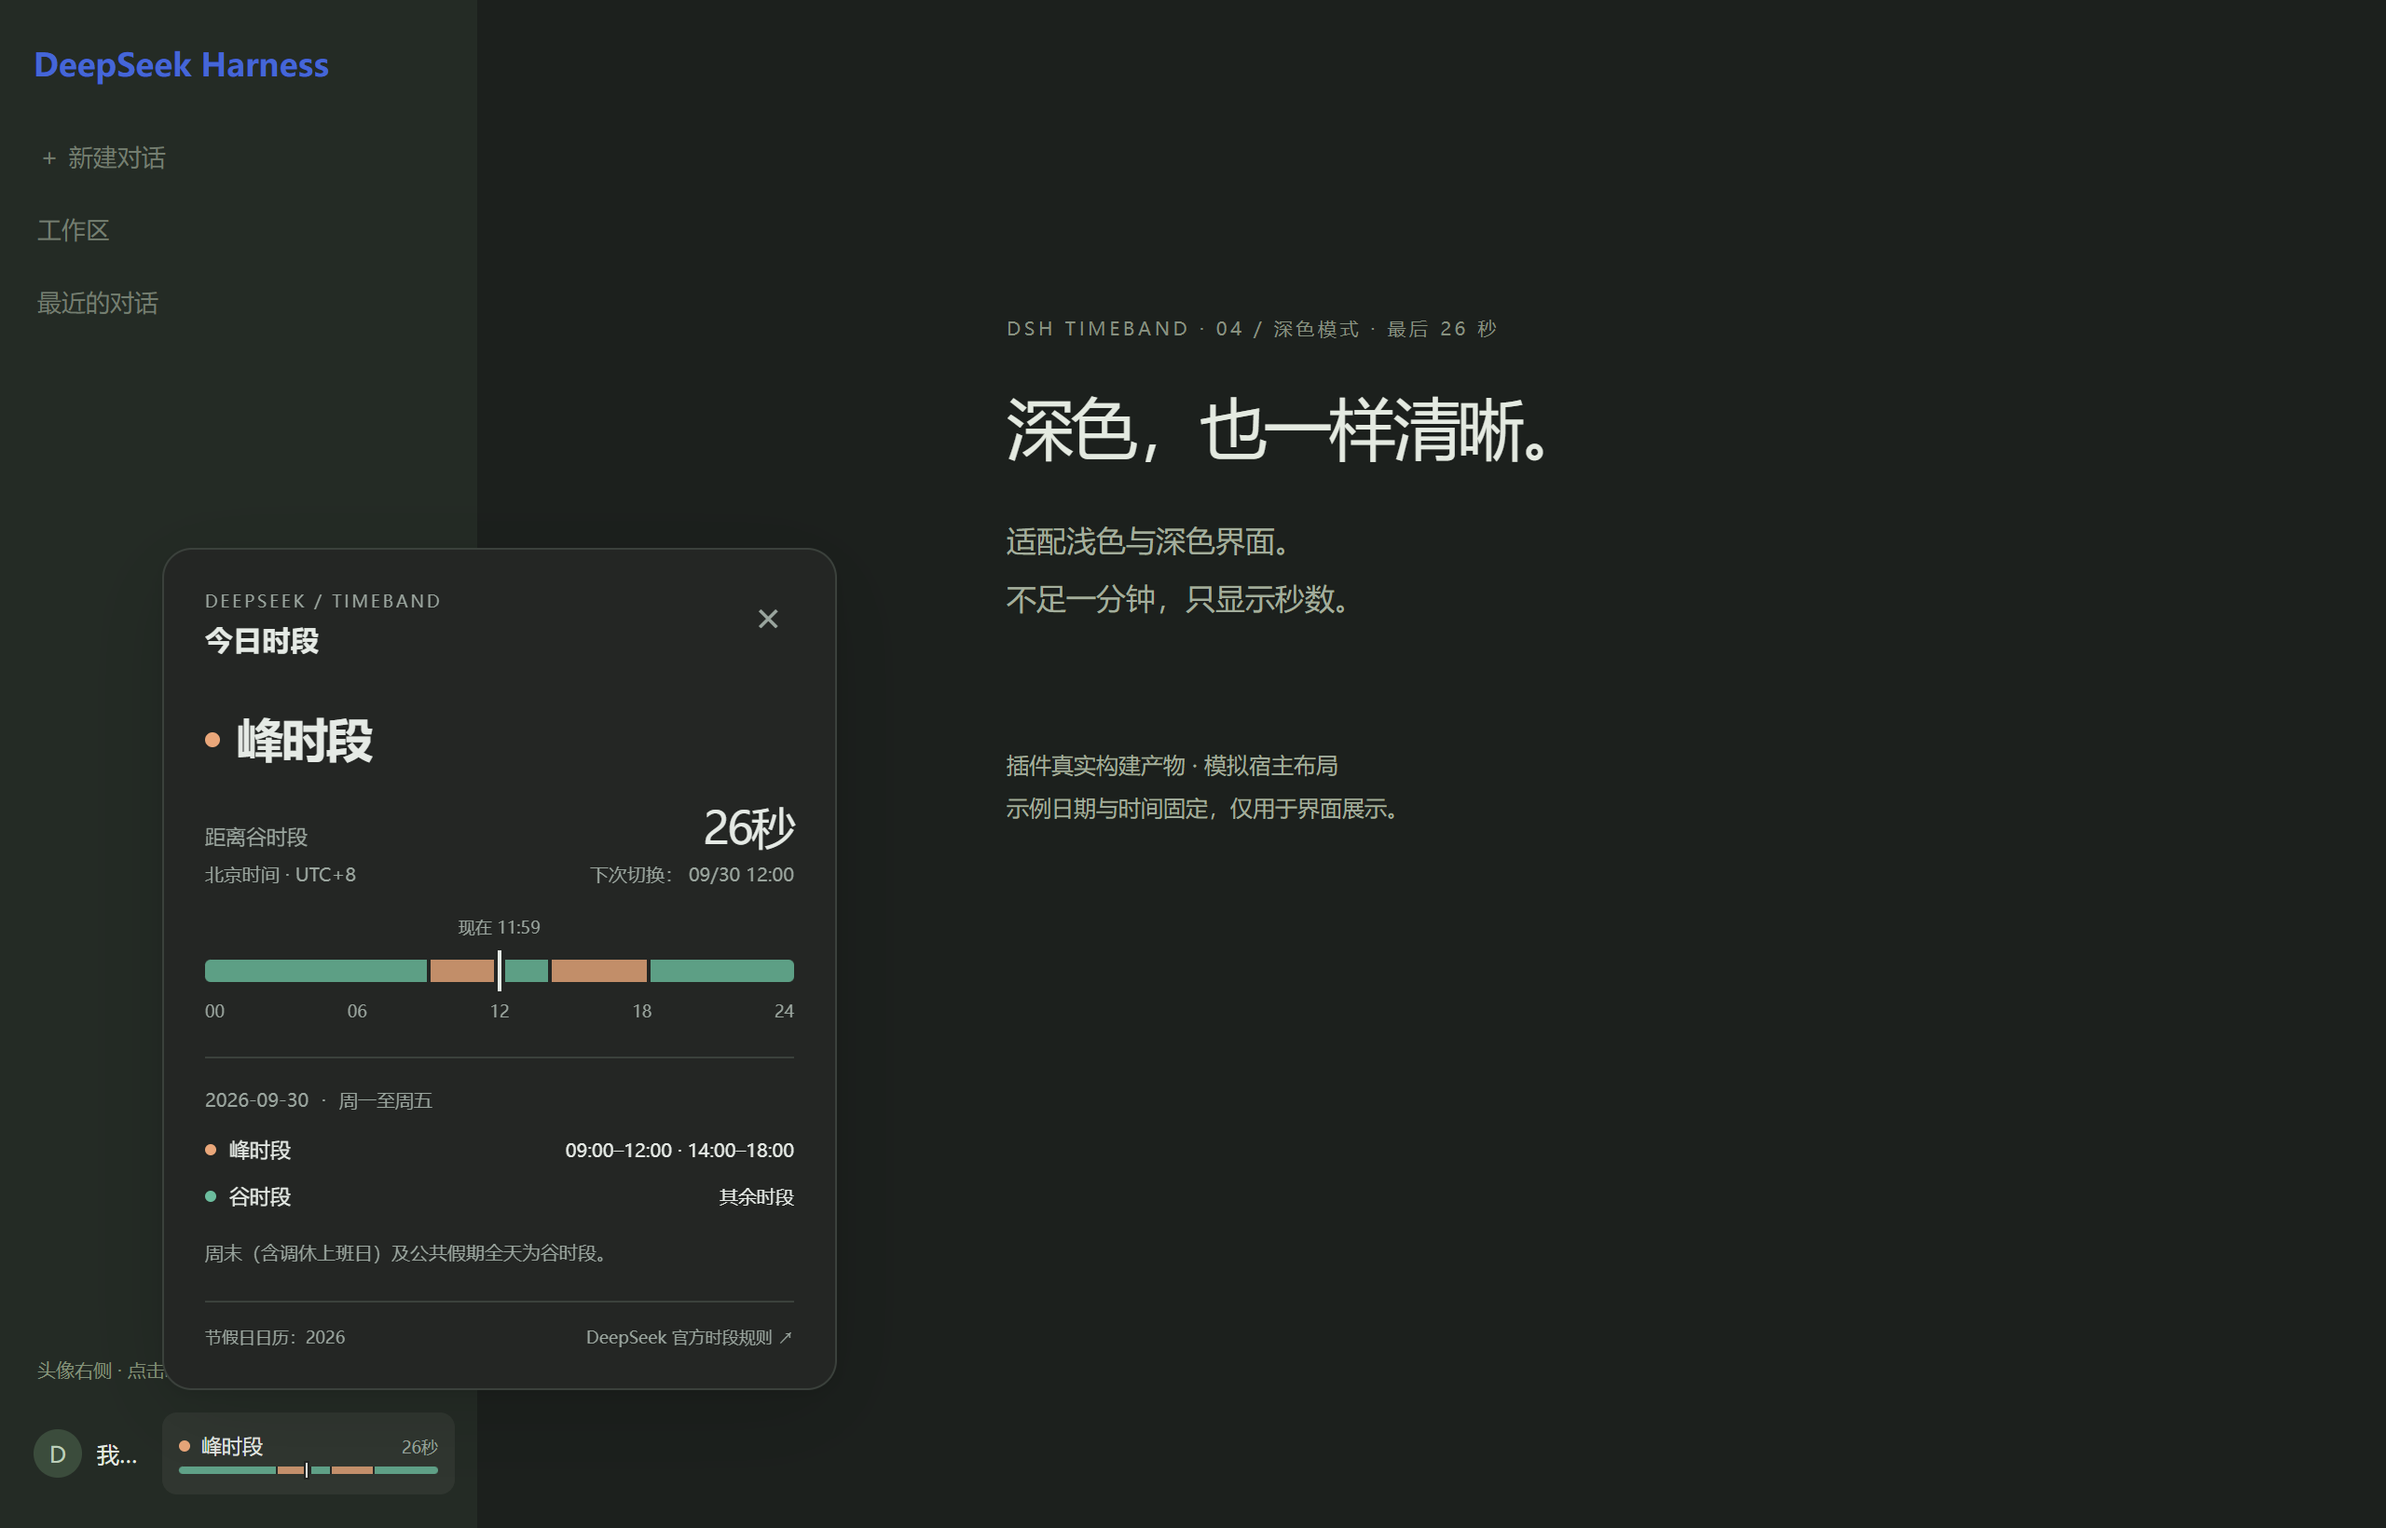
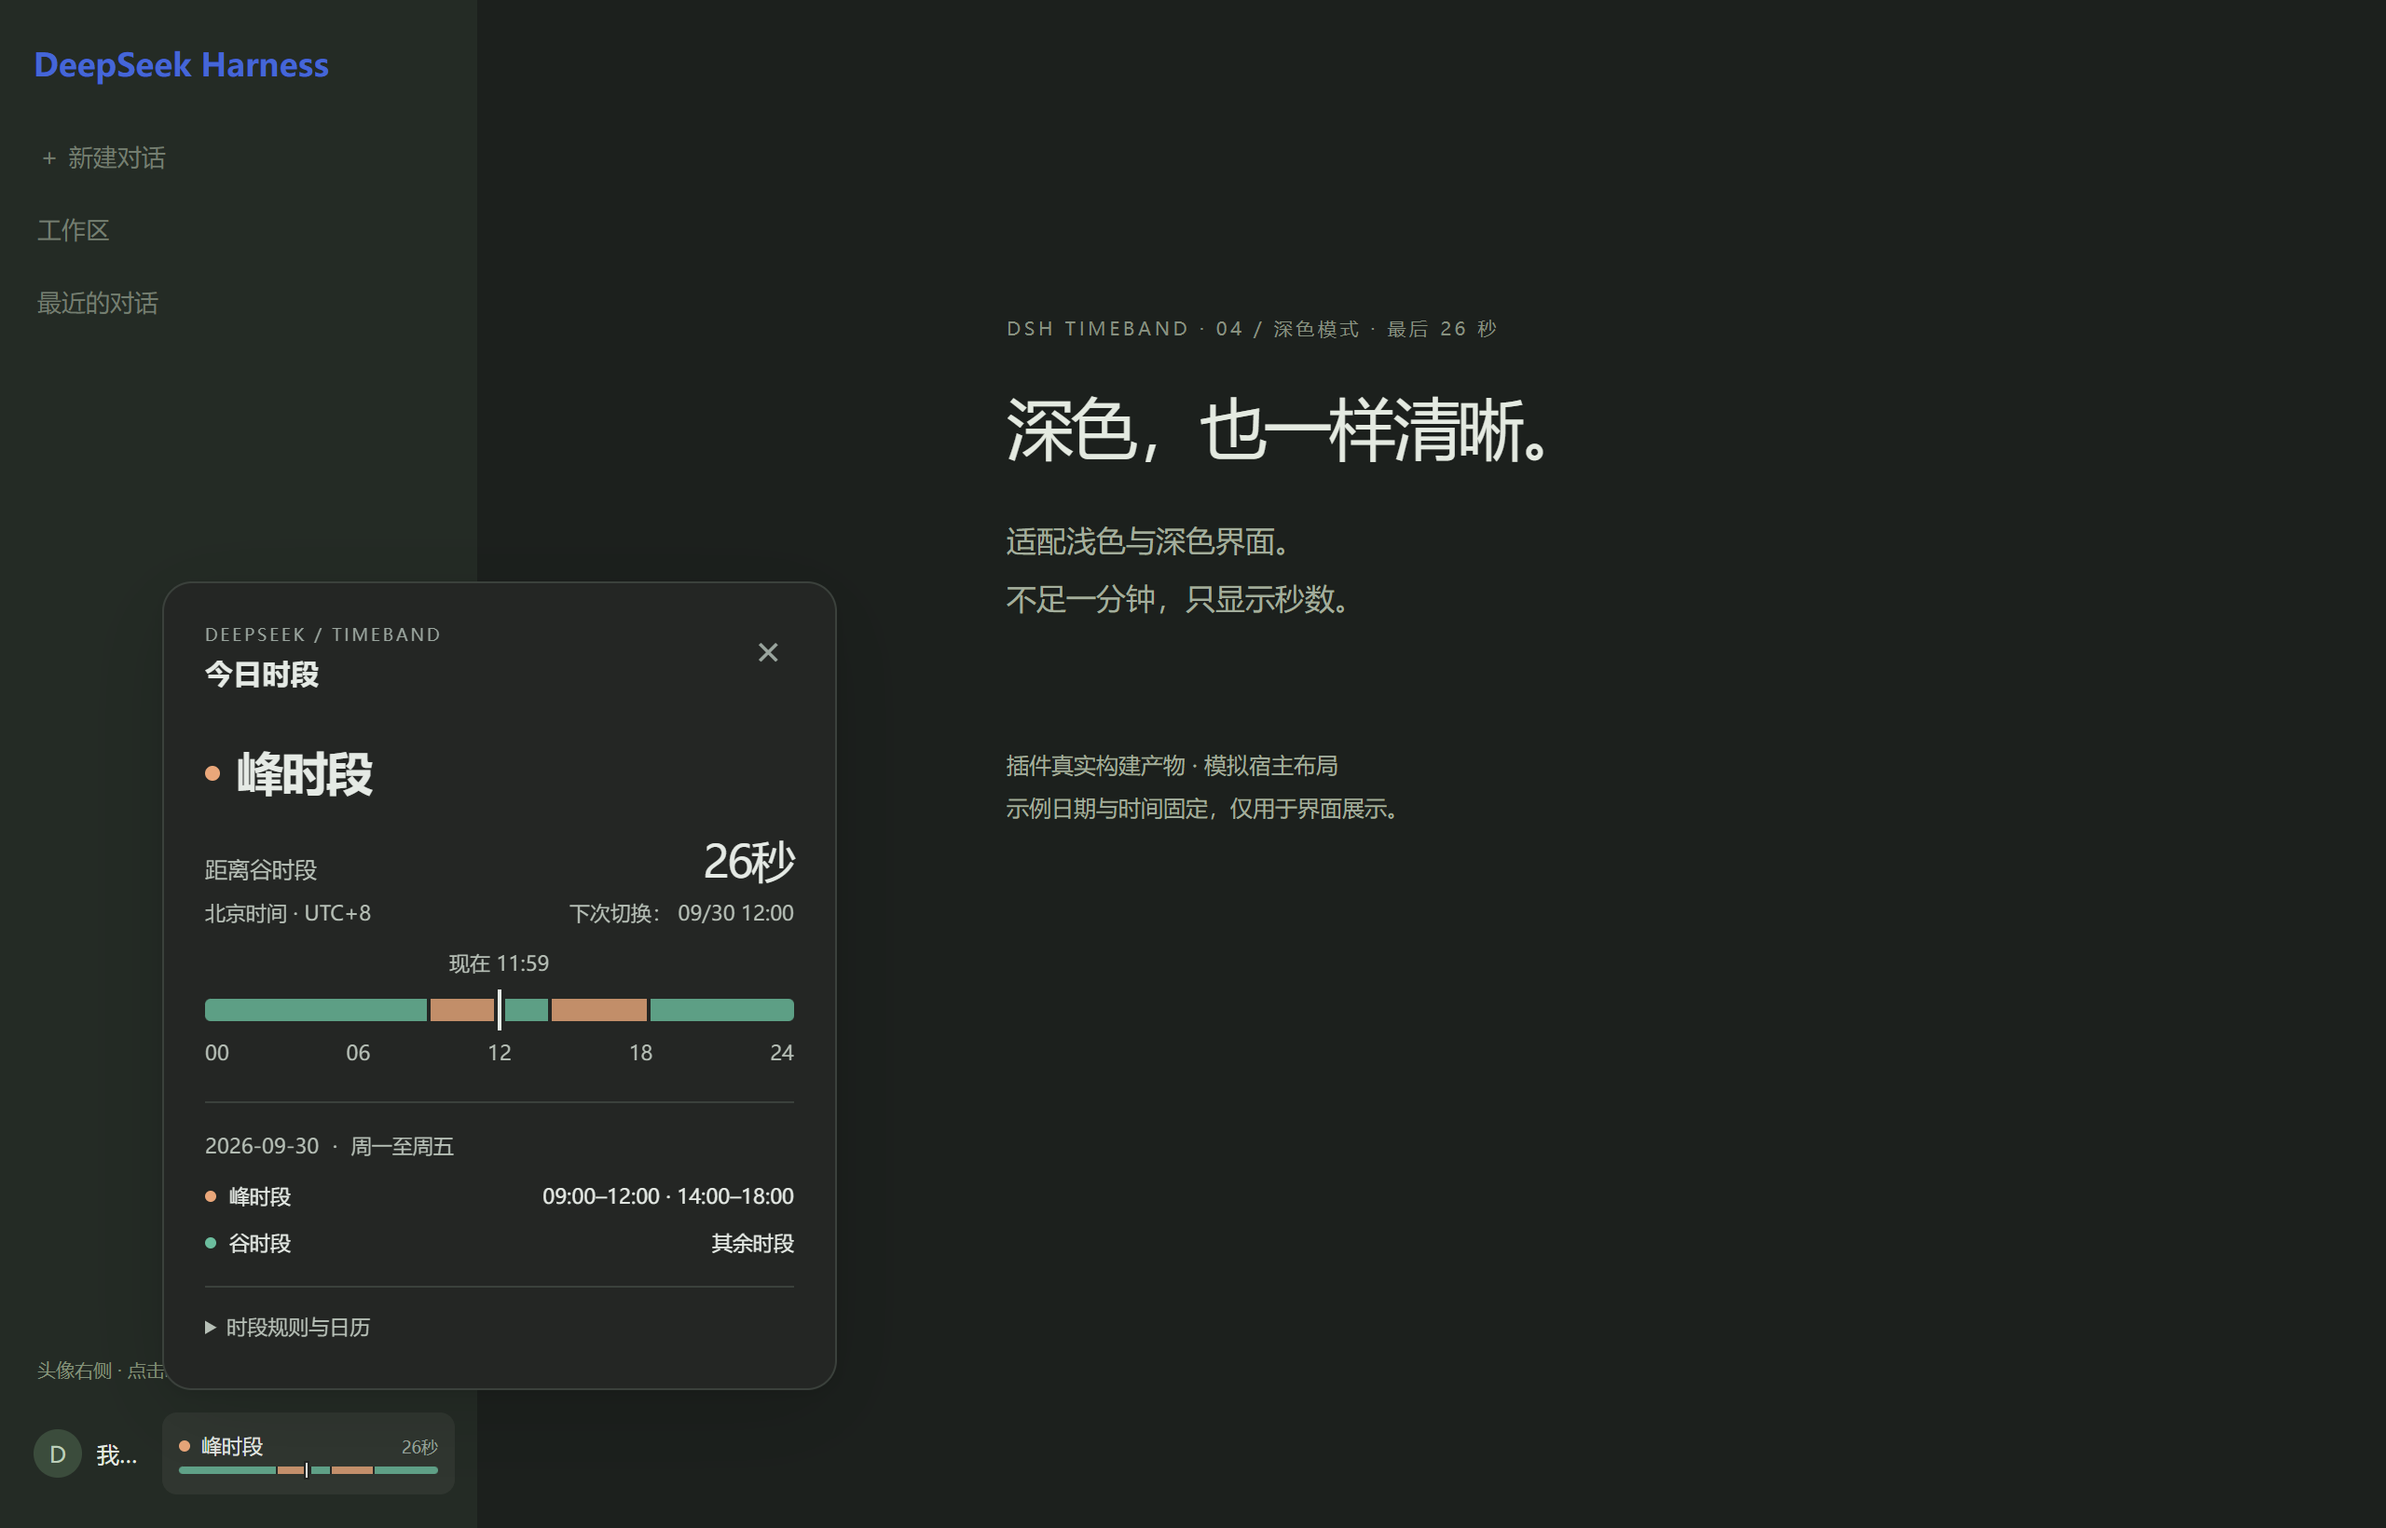
Release v1.0.2 with simpler holiday cards and clearer time labels

diff --git a/src/style.css b/src/style.css
@@ -2,6 +2,7 @@
   --dtb-bg: var(--dsw-alias-bg-base, #fff);
   --dtb-text: var(--dsw-alias-label-primary, #252925);
   --dtb-muted: var(--dsw-alias-label-tertiary, #798079);
+  --dtb-secondary: var(--dsw-alias-label-secondary, #596459);
   --dtb-line: var(--dsw-alias-border-primary, #e7ebe7);
   --dtb-hover: var(--dsw-alias-interactive-bg-hover, #f4f6f3);
   --dtb-green: #338468; --dtb-peak: #cf7850; --dtb-unknown: #909897;
@@ -11,7 +12,7 @@
 .dtb-root { min-width: 0; width: 100%; }
 .dtb-chip { display: flex; flex-direction: column; justify-content: center; gap: 4px; width: 100%; min-width: 126px; height: 44px; padding: 5px 9px; border: 0; border-radius: 8px; background: transparent; color: inherit; font: inherit; cursor: pointer; }
 .dtb-chip:hover, .dtb-chip[aria-expanded='true'], .dtb-close:hover { background: var(--dtb-hover); }
-.dtb-chip:focus-visible, .dtb-close:focus-visible, .dtb-card a:focus-visible { outline: 2px solid var(--dtb-green); outline-offset: 3px; }
+.dtb-chip:focus-visible, .dtb-close:focus-visible, .dtb-card a:focus-visible, .dtb-details summary:focus-visible { outline: 2px solid var(--dtb-green); outline-offset: 3px; }
 .dtb-chip-top { display: flex; flex-wrap: wrap; align-items: center; width: 100%; gap: 2px 6px; }
 .dtb-chip-label { white-space: nowrap; font-size: 11px; }
 .dtb-chip-count { flex-shrink: 0; margin-left: auto; color: var(--dtb-muted); font-size: 9px; font-variant-numeric: tabular-nums; }
@@ -59,21 +60,25 @@ div:has(> div > .dtb-root[data-wide='true']:only-child):has(> div button[data-co
 .dtb-status .dtb-dot { width: 8px; height: 8px; }
 .dtb-status strong { font-weight: 550; font-size: 25px; letter-spacing: -.04em; }
 .dtb-next { display: flex; flex-wrap: wrap; align-items: baseline; justify-content: space-between; gap: 8px; margin-top: 17px; }
-.dtb-next > span { color: var(--dtb-muted); font-size: 11px; }
+.dtb-next > span { color: var(--dtb-secondary); font-size: 12px; }
 .dtb-next strong { margin-left: auto; max-width: 100%; font-size: 24px; font-weight: 400; letter-spacing: -.045em; font-variant-numeric: tabular-nums; }
-.dtb-date { display: flex; justify-content: space-between; gap: 8px; color: var(--dtb-muted); font-size: 10px; margin-top: 4px; }
+.dtb-date { display: flex; flex-wrap: wrap; justify-content: space-between; gap: 4px 8px; color: var(--dtb-secondary); font-size: 11px; margin-top: 6px; }
+.dtb-date > span:last-child { margin-left: auto; }
 .dtb-axis { position: relative; margin: 39px 0 19px; }
-.dtb-now { position: absolute; top: -12px; transform: translate(-50%, -100%); font-size: 9px; white-space: nowrap; color: var(--dtb-muted); }
-.dtb-ticks { display: flex; justify-content: space-between; margin-top: 10px; color: var(--dtb-muted); font-size: 9px; font-variant-numeric: tabular-nums; }
-.dtb-day-kind { border-top: 1px solid var(--dtb-line); padding-top: 16px; margin-bottom: 13px; font-size: 10px; color: var(--dtb-muted); }
+.dtb-now { position: absolute; top: -12px; transform: translate(-50%, -100%); font-size: 11px; white-space: nowrap; color: var(--dtb-secondary); }
+.dtb-ticks { display: flex; justify-content: space-between; margin-top: 10px; color: var(--dtb-secondary); font-size: 11px; font-variant-numeric: tabular-nums; }
+.dtb-day-kind { border-top: 1px solid var(--dtb-line); padding-top: 16px; margin-bottom: 13px; font-size: 11px; color: var(--dtb-secondary); }
 .dtb-day-kind > span { padding: 0 4px; }
 .dtb-periods > div { display: flex; justify-content: space-between; align-items: center; gap: 10px; margin: 11px 0; font-size: 11px; }
 .dtb-periods span { display: flex; align-items: center; gap: 7px; white-space: nowrap; }
-.dtb-periods b { font-weight: 400; font-size: 10px; font-variant-numeric: tabular-nums; text-align: right; }
-.dtb-note { font-size: 10px; color: var(--dtb-muted); line-height: 1.7; margin: 15px 0 17px; }
-.dtb-footer { display: flex; justify-content: space-between; flex-wrap: wrap; gap: 8px; border-top: 1px solid var(--dtb-line); padding-top: 13px; font-size: 9px; color: var(--dtb-muted); }
+.dtb-periods b { font-weight: 400; font-size: 11px; font-variant-numeric: tabular-nums; text-align: right; }
+.dtb-note { font-size: 11px; color: var(--dtb-secondary); line-height: 1.7; margin: 13px 0; }
+.dtb-details { border-top: 1px solid var(--dtb-line); margin-top: 16px; padding-top: 12px; }
+.dtb-details summary { width: fit-content; cursor: pointer; font-size: 11px; color: var(--dtb-secondary); line-height: 1.8; }
+.dtb-footer { display: flex; justify-content: space-between; flex-wrap: wrap; gap: 8px; padding-top: 3px; font-size: 10px; color: var(--dtb-muted); }
 .dtb-footer a { color: inherit; text-decoration: none; }
 .dtb-footer a:hover { text-decoration: underline; }
 @media (prefers-color-scheme: dark) {
+  .dtb-theme { --dtb-secondary: var(--dsw-alias-label-secondary, #b6bfb6); }
   .dtb-theme { --dtb-bg: var(--dsw-alias-bg-base, #242624); --dtb-text: var(--dsw-alias-label-primary, #e5eae5); --dtb-muted: var(--dsw-alias-label-tertiary, #9aa59e); --dtb-line: var(--dsw-alias-border-primary, #3b413c); --dtb-hover: var(--dsw-alias-interactive-bg-hover, #303630); --dtb-green: #6cbd9e; --dtb-peak: #eaa77a; }
 }

diff --git a/src/locales.ts b/src/locales.ts
@@ -4,7 +4,7 @@ export const zh = {
   weekday: '周一至周五', weekend: '周末 · 全天谷时段', holiday: '公共假期 · 全天谷时段',
   unverified: '本年度节假日日历待更新', allDay: '全天', rest: '其余时段', now: '现在',
   nextSwitch: '下次切换：', close: '关闭时间轴', open: '查看峰谷时间轴', rule: 'DeepSeek 官方时段规则',
-  calendar: '节假日日历：2026', note: '周末（含调休上班日）及公共假期全天为谷时段。',
+  details: '时段规则与日历', calendar: '节假日日历：2026', note: '周末（含调休上班日）及公共假期全天为谷时段。',
   unknownNote: '缺少本年度假期数据，工作日峰时段暂不作确定判断。',
   timeline: '北京时间 24 小时时间轴', days: '天', hours: '小时', minutes: '分钟', seconds: '秒',
 };
@@ -15,7 +15,7 @@ export const en: Record<TextKey, string> = {
   weekday: 'Monday–Friday', weekend: 'Weekend · off-peak all day', holiday: 'Public holiday · off-peak all day',
   unverified: 'Holiday calendar needs an update', allDay: 'All day', rest: 'All other hours', now: 'Now',
   nextSwitch: 'Next change:', close: 'Close timeline', open: 'View peak hours timeline', rule: 'DeepSeek official schedule',
-  calendar: 'Holiday calendar: 2026', note: 'Weekends (including makeup workdays) and public holidays are off-peak all day.',
+  details: 'Schedule rules and calendar', calendar: 'Holiday calendar: 2026', note: 'Weekends (including makeup workdays) and public holidays are off-peak all day.',
   unknownNote: 'Holiday data for this year is unavailable; weekday peak periods are unverified.',
   timeline: '24-hour timeline in Beijing time', days: 'd', hours: 'h', minutes: 'min', seconds: 's',
 };

diff --git a/src/view.tsx b/src/view.tsx
@@ -95,14 +95,16 @@ export function TimeBand({ wide, useClock, t }: TimeBandProps) {
         <div className="dtb-ticks"><span>00</span><span>06</span><span>12</span><span>18</span><span>24</span></div>
       </div>
       <div className="dtb-day-kind">{day.key} <span>·</span> {t(day.kind)}</div>
-      <div className="dtb-periods">
-        {segments.length === 1 ? <div><span><i className="dtb-dot dtb-offpeak" />{t('offpeak')}</span><b>00:00 — 24:00</b></div> : <>
+      {segments.length > 1 && <div className="dtb-periods">
           <div><span><i className={`dtb-dot dtb-${day.covered ? 'peak' : 'unknown'}`} />{t(day.covered ? 'peak' : 'unknown')}</span><b>09:00–12:00 · 14:00–18:00</b></div>
           <div><span><i className="dtb-dot dtb-offpeak" />{t('offpeak')}</span><b>{t('rest')}</b></div>
-        </>}
-      </div>
-      <p className="dtb-note">{t(day.covered ? 'note' : 'unknownNote')}</p>
-      <footer className="dtb-footer"><span>{t('calendar')}</span><a href={PRICING_SOURCE} target="_blank" rel="noreferrer">{t('rule')} ↗</a></footer>
+      </div>}
+      {!day.covered && <p className="dtb-note">{t('unknownNote')}</p>}
+      <details className="dtb-details">
+        <summary>{t('details')}</summary>
+        <p className="dtb-note">{t('note')}</p>
+        <footer className="dtb-footer"><span>{t('calendar')}</span><a href={PRICING_SOURCE} target="_blank" rel="noreferrer">{t('rule')} ↗</a></footer>
+      </details>
     </div>, document.body)}
   </div>;
 }

diff --git a/README.md b/README.md
@@ -2,7 +2,7 @@
 
 DeepSeek Harness 桌面端头像右侧的峰谷时段插件。状态、切换倒计时、迷你时间轴常驻；点击查看北京时间 24 小时时间轴。没有价格、消费金额、Token、余额或预计节省功能，也不读取账户或 API Key。
 
-支持浅色 / 深色、中英文、侧栏折叠与节假日全天谷时段。离线运行，采用宿主共享的 React 和 Cordis 原生插件接口。
+支持浅色 / 深色、中英文、侧栏折叠与节假日全天谷时段。节假日卡片精简重复时段说明，规则与日历默认折叠；关键时间与刻度使用更清晰的字号和颜色。离线运行，采用宿主共享的 React 和 Cordis 原生插件接口。
 
 ## 展示
 
@@ -35,18 +35,18 @@ DeepSeek Harness 桌面端头像右侧的峰谷时段插件。状态、切换倒
 
 已针对 **DeepSeek Harness 0.2.0-rc.2** 制作。版本声明只覆盖此版本，宿主升级后应重新验证并更新 peer 范围。
 
-从 [GitHub Releases](https://github.com/a961282799-crypto/dsh-timeband/releases/tag/v1.0.1) 下载预构建安装包 `dsh-timeband-1.0.1.tgz`。不需要安装开发依赖或自行编译。
+从 [GitHub Releases](https://github.com/a961282799-crypto/dsh-timeband/releases/tag/v1.0.2) 下载预构建安装包 `dsh-timeband-1.0.2.tgz`。不需要安装开发依赖或自行编译。
 
 从托盘完全退出 Harness，在下载目录执行：
 
 ```powershell
-dsh plugin --profile desktop add ./dsh-timeband-1.0.1.tgz
+dsh plugin --profile desktop add ./dsh-timeband-1.0.2.tgz
 ```
 
 如果 `dsh` 不在 PATH，使用桌面端安装目录中随附的命令，例如：
 
 ```powershell
-& 'C:\path\to\DeepSeek Harness\resources\runtime\cli\bin\dsh.cmd' plugin --profile desktop add ./dsh-timeband-1.0.1.tgz
+& 'C:\path\to\DeepSeek Harness\resources\runtime\cli\bin\dsh.cmd' plugin --profile desktop add ./dsh-timeband-1.0.2.tgz
 ```
 
 安装后重新打开 Harness，侧栏底部即可看到插件。卸载：
